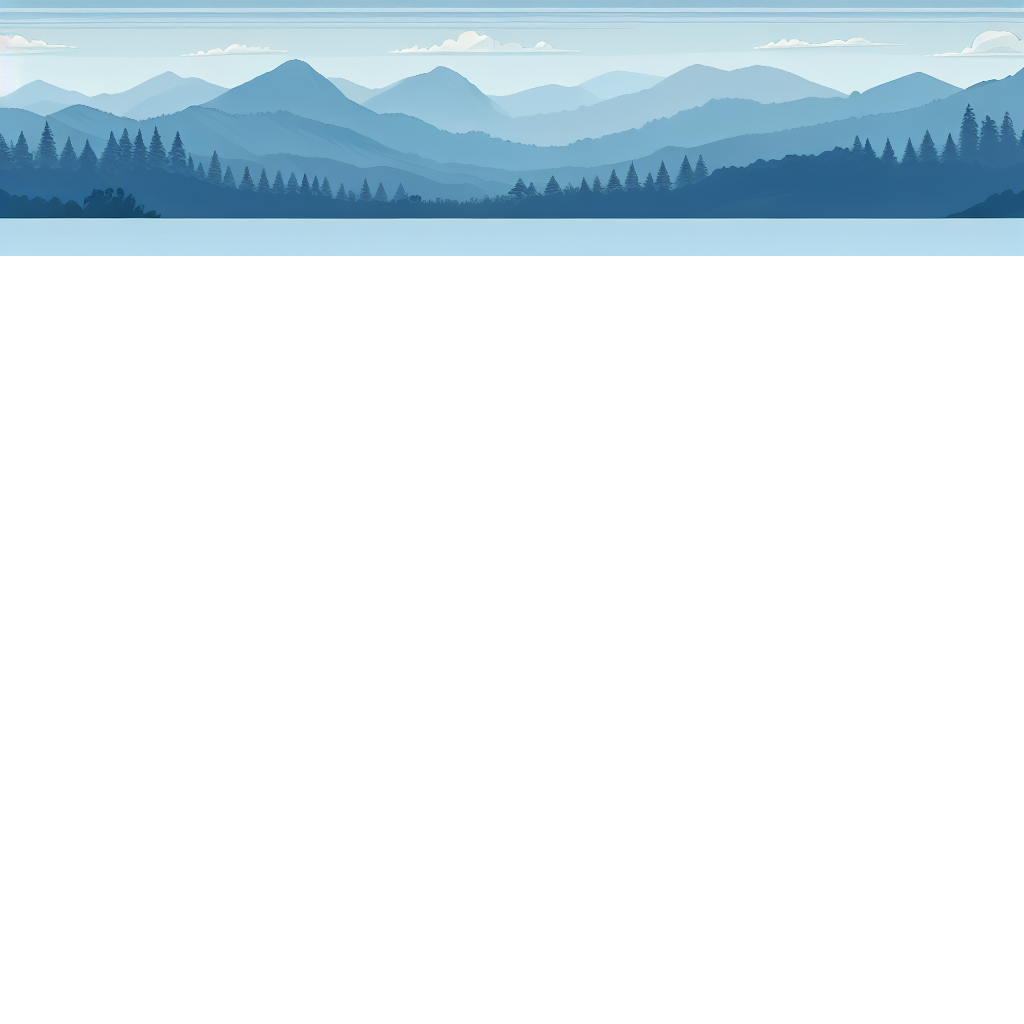
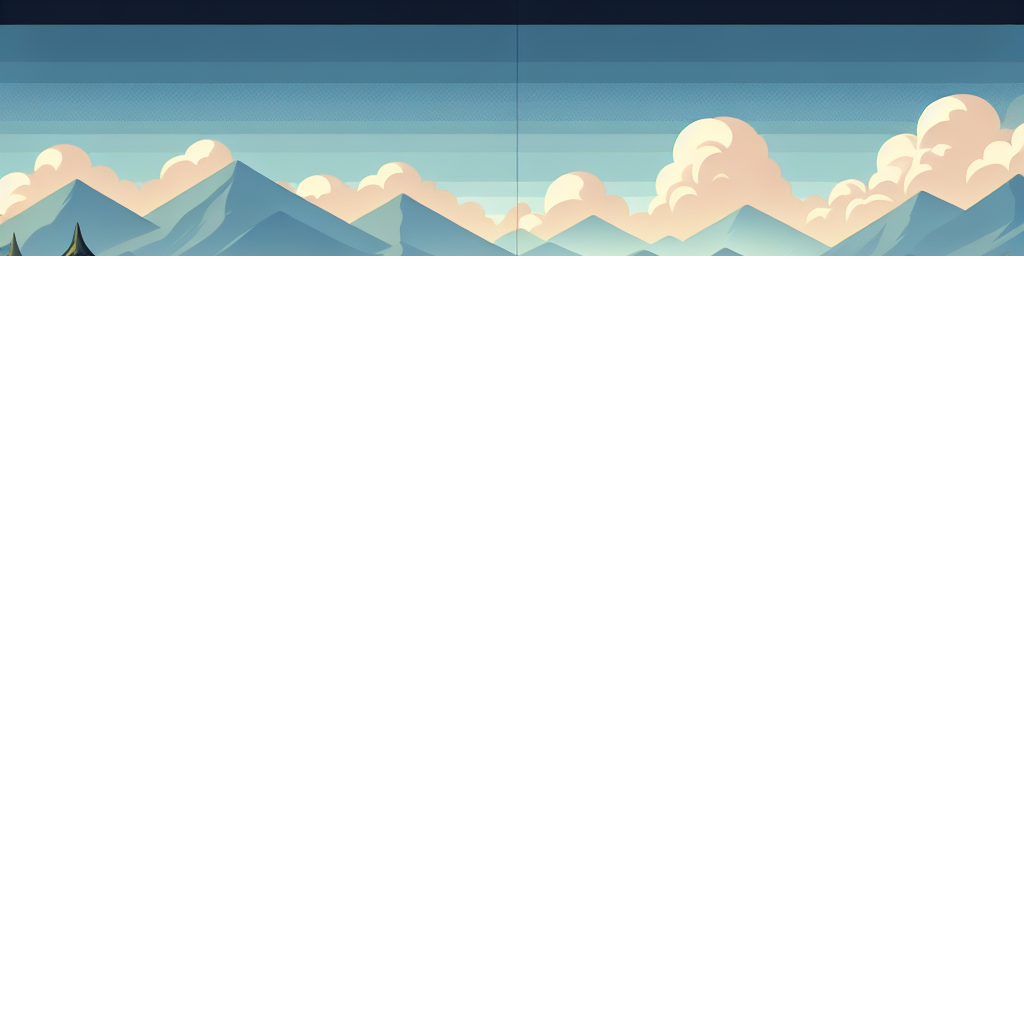
🦀Generated files for 2025-06-26🦀

Changed region(s): [[0.0, 0.0, 1.0, 0.25]]

diff --git a/README.md b/README.md
@@ -19,4 +19,4 @@ Additionally, the GIF generation pipeline may produce totally botched results wh
 
 ![image](images/image_current.png)
 
-**Prompt:** Background for 2d side-scrolling game, which have 4 separate horizontal layers. Layer 1: The far background features a distant mountain range with gentle slopes and peaks, rendered in muted blues and grays (0x001f41, 0x2f5a78, 0x44789c).
+**Prompt:** Background for 2d side-scrolling game, which have 4 separate horizontal layers. Layer 1: [Far background elements: distant mountains and sky with subtle gradients, using light blues and dark blues to create depth, with minimal detail for seamless repetition]. Layer 2: [Mid-distant elements: rolling hills and sparse trees, using muted greens and browns, with some soft cloud shapes for atmospheric depth].
